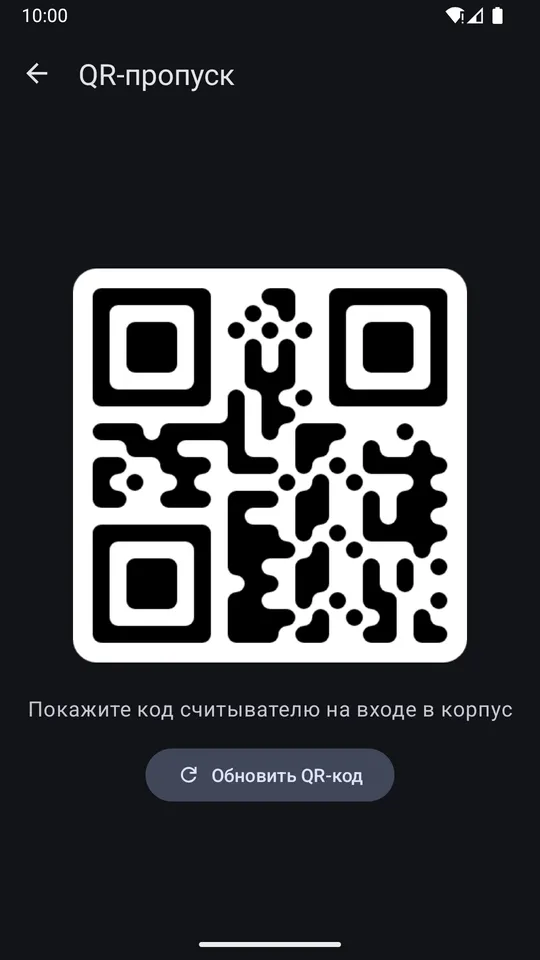
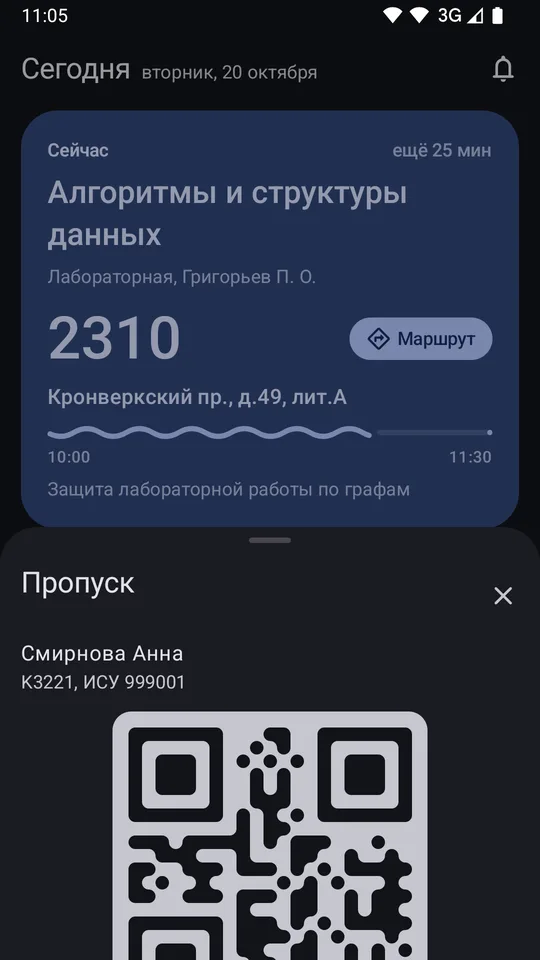
Landing for the 2.3 public beta (#36)
* Landing for the 2.3 public beta: iPhone, Устройства, Telegram downloads

* Landing screenshots from the 2.3 demo, with iPhone shots

* Drop the unused schedule screenshot

diff --git a/site/index.html b/site/index.html
@@ -3,11 +3,11 @@
 <head>
   <meta charset="utf-8">
   <meta name="viewport" content="width=device-width, initial-scale=1">
-  <title>ITMO.Widgets — расписание, зачётка, спорт и QR-пропуск ИТМО на Android</title>
-  <meta name="description" content="Неофициальное приложение для студентов ИТМО: расписание и виджеты, зачётка с БАРС, запись на спорт, отзывы о преподавателях, друзья и QR-пропуск.">
+  <title>ITMO.Widgets — расписание, зачётка, спорт и QR-пропуск ИТМО на Android и iPhone</title>
+  <meta name="description" content="Неофициальное приложение для студентов ИТМО на Android и iPhone: расписание и виджеты, зачётка с БАРС, запись и очереди на спорт, карта кампуса, отзывы о преподавателях, друзья и QR-пропуск.">
   <meta name="color-scheme" content="light dark">
   <meta property="og:title" content="ITMO.Widgets">
-  <meta property="og:description" content="Расписание, зачётка, спорт и QR-пропуск ИТМО в одном приложении для Android.">
+  <meta property="og:description" content="Расписание, зачётка, спорт и QR-пропуск ИТМО в одном приложении для Android и iPhone.">
   <meta property="og:image" content="https://widgets.alllexey.dev/img/icon.webp">
   <link rel="icon" href="/img/favicon.png">
   <link rel="stylesheet" href="/style.css">
@@ -29,17 +29,17 @@
   <main>
     <section class="hero">
       <div class="hero-text">
-        <span class="eyebrow">Для студентов ИТМО на Android</span>
+        <span class="eyebrow">Для студентов ИТМО на Android и iPhone</span>
         <h1>Один учебный день с ITMO.Widgets</h1>
-        <p class="lead">От первого виджета утром до планов на завтра: расписание, пропуск, зачётка, спорт и друзья — в одном приложении.</p>
+        <p class="lead">От первого виджета утром до планов на завтра: расписание, пропуск, зачётка, спорт, карта кампуса и друзья — в одном приложении.</p>
         <div class="actions">
           <a class="button" href="https://play.google.com/store/apps/details?id=dev.alllexey.itmowidgets" hidden>Google Play</a>
-          <a class="button" href="https://github.com/alllexey-dev/ITMO.Widgets/releases/latest">Скачать APK</a>
+          <a class="button" href="#download">Скачать бету 2.3</a>
           <a class="button button-tonal" href="https://github.com/alllexey-dev/ITMO.Widgets">GitHub</a>
         </div>
         <p class="note">Неофициальное приложение, не связано с Университетом ИТМО. Вход через ITMO.ID, пароль приложению не нужен.</p>
       </div>
-      <figure class="hero-phone device"><picture><source srcset="/img/dark/home.webp" media="(prefers-color-scheme: dark)" data-dark><img src="/img/light/home.webp" alt="Главный экран: пары на сегодня, изменения, оценки и спорт" width="540" height="960"></picture></figure>
+      <figure class="hero-phone device"><picture><source srcset="/img/dark/home.webp" media="(prefers-color-scheme: dark)" data-dark><img src="/img/light/home.webp" alt="Сегодня: пара, на которую идти, и день на линии времени" width="540" height="960"></picture></figure>
     </section>
 
     <nav class="day" aria-label="Разделы">
@@ -50,6 +50,7 @@
       <a href="#t4"><b>13:10</b><span>Перед семинаром</span></a>
       <a href="#t5"><b>15:20</b><span>Спорт</span></a>
       <a href="#t6"><b>19:00</b><span>Вечер</span></a>
+      <a href="#t7"><b>23:30</b><span>Ночь</span></a>
     </nav>
 
     <section id="features" class="timeline">
@@ -57,15 +58,11 @@
         <div class="step-time"><b>07:40</b><span>Утро</span></div>
         <div class="step-body">
           <div class="step-text">
-            <span class="eyebrow">Расписание и виджеты</span>
+            <span class="eyebrow">Сегодня и виджеты</span>
             <h2>Пары на сегодня — ещё до кофе</h2>
-            <p>Виджеты «Пара» и «Расписание» на домашнем экране обновляются сами. На главном экране приложения — пары, изменения в расписании, новые оценки и спорт.</p>
+            <p>«Сегодня» показывает пару, на которую идти: аудиторию, адрес и сколько осталось, а ниже — весь день с изменениями, окнами и спортом. Виджеты «Пара», «Расписание на день», «Список пар» и «Спорт» — на Android и iPhone.</p>
           </div>
-          <div class="homescreen">
-            <figure class="w w-single"><picture><source srcset="/img/dark/widget_single_lesson_preview.webp" media="(prefers-color-scheme: dark)" data-dark><img src="/img/light/widget_single_lesson_preview.webp" alt="Виджет «Пара»" width="600" height="167" loading="lazy"></picture></figure>
-            <figure class="w w-list"><picture><source srcset="/img/dark/widget_lesson_list_preview.webp" media="(prefers-color-scheme: dark)" data-dark><img src="/img/light/widget_lesson_list_preview.webp" alt="Виджет «Расписание»" width="600" height="380" loading="lazy"></picture></figure>
-            <figure class="w w-qr"><img src="/img/light/widget_qr_code_preview.webp" alt="Виджет «QR&#8209;код»" width="300" height="300" loading="lazy"></figure>
-          </div>
+          <div class="shots"><figure class="device"><picture><source srcset="/img/dark/widgets.webp" media="(prefers-color-scheme: dark)" data-dark><img src="/img/light/widgets.webp" alt="Галерея виджетов: «Пара» и «Расписание на день»" width="540" height="960" loading="lazy"></picture></figure></div>
         </div>
       </article>
       <article class="step" id="t1">
@@ -74,9 +71,9 @@
           <div class="step-text">
             <span class="eyebrow">QR&#8209;пропуск</span>
             <h2>Пропуск в одно касание</h2>
-            <p>QR-код с главного экрана, из виджета, из плитки в шторке и с ярлыка на рабочем столе.</p>
+            <p>QR-код на «Сегодня» и с ярлыка на значке приложения. На Android — ещё виджет и плитка в шторке, на iPhone — Пункт управления, экран блокировки и кнопка действия. Последний код открывается без сети.</p>
           </div>
-          <div class="shots"><figure class="device"><picture><source srcset="/img/dark/qr.webp" media="(prefers-color-scheme: dark)" data-dark><img src="/img/light/qr.webp" alt="QR&#8209;пропуск" width="540" height="960" loading="lazy"></picture></figure></div>
+          <div class="shots"><figure class="device"><picture><source srcset="/img/dark/qr.webp" media="(prefers-color-scheme: dark)" data-dark><img src="/img/light/qr.webp" alt="Пропуск: QR&#8209;код, имя, группа и ИСУ" width="540" height="960" loading="lazy"></picture></figure><figure class="device"><picture><source srcset="/img/dark/ios-pass.webp" media="(prefers-color-scheme: dark)" data-dark><img src="/img/light/ios-pass.webp" alt="Пропуск на iPhone" width="540" height="960" loading="lazy"></picture></figure></div>
         </div>
       </article>
       <article class="step" id="t2">
@@ -84,10 +81,10 @@
         <div class="step-body">
           <div class="step-text">
             <span class="eyebrow">Расписание</span>
-            <h2>Аудитория, преподаватель и друзья на паре</h2>
-            <p>Тап по паре — тип занятия, аудитория на карте и кто из друзей тоже здесь. Расписание работает без сети, а об изменениях приложение сообщит.</p>
+            <h2>Аудитория, маршрут и друзья на паре</h2>
+            <p>Лента дней с записями на спорт среди пар. В карточке пары — аудитория и корпус, ссылки к предмету, друзья на паре и «Маршрут» на карте кампуса: аудитория на своём этаже и путь до неё. Расписание работает без сети, а об изменениях приложение сообщит.</p>
           </div>
-          <div class="shots"><figure class="device"><picture><source srcset="/img/dark/schedule.webp" media="(prefers-color-scheme: dark)" data-dark><img src="/img/light/schedule.webp" alt="Расписание на вторник" width="540" height="960" loading="lazy"></picture></figure><figure class="device"><picture><source srcset="/img/dark/lesson.webp" media="(prefers-color-scheme: dark)" data-dark><img src="/img/light/lesson.webp" alt="Детали пары с друзьями на паре" width="540" height="960" loading="lazy"></picture></figure></div>
+          <div class="shots"><figure class="device"><picture><source srcset="/img/dark/lesson.webp" media="(prefers-color-scheme: dark)" data-dark><img src="/img/light/lesson.webp" alt="Карточка пары: аудитория, маршрут и друзья на паре" width="540" height="960" loading="lazy"></picture></figure><figure class="device"><picture><source srcset="/img/dark/ios-map.webp" media="(prefers-color-scheme: dark)" data-dark><img src="/img/light/ios-map.webp" alt="Карта кампуса на iPhone" width="540" height="960" loading="lazy"></picture></figure></div>
         </div>
       </article>
       <article class="step" id="t3">
@@ -96,9 +93,9 @@
           <div class="step-text">
             <span class="eyebrow">Зачётка и баллы</span>
             <h2>Пришла новая оценка</h2>
-            <p>Баллы из My ITMO и БАРС, контрольные точки и свой итог из Google Таблицы преподавателя. Рядом — ссылки к предмету: материалы, чаты, очередь на защиту.</p>
+            <p>Колокольчик и уведомление с оценкой в заголовке. У каждого числа в зачётке подписан источник: БАРС, My ITMO или Google Таблица преподавателя. На странице предмета — баллы, пары и материалы: ссылки, чаты, очередь на защиту.</p>
           </div>
-          <div class="shots"><figure class="device"><picture><source srcset="/img/dark/recordbook.webp" media="(prefers-color-scheme: dark)" data-dark><img src="/img/light/recordbook.webp" alt="Зачётка за семестр" width="540" height="960" loading="lazy"></picture></figure><figure class="device"><picture><source srcset="/img/dark/subject.webp" media="(prefers-color-scheme: dark)" data-dark><img src="/img/light/subject.webp" alt="Страница предмета с баллами и ссылками" width="540" height="960" loading="lazy"></picture></figure></div>
+          <div class="shots"><figure class="device"><picture><source srcset="/img/dark/recordbook.webp" media="(prefers-color-scheme: dark)" data-dark><img src="/img/light/recordbook.webp" alt="Зачётка: баллы и их источники" width="540" height="960" loading="lazy"></picture></figure><figure class="device"><picture><source srcset="/img/dark/subject.webp" media="(prefers-color-scheme: dark)" data-dark><img src="/img/light/subject.webp" alt="Страница предмета: баллы и лабораторные" width="540" height="960" loading="lazy"></picture></figure></div>
         </div>
       </article>
       <article class="step" id="t4">
@@ -107,9 +104,9 @@
           <div class="step-text">
             <span class="eyebrow">Отзывы о преподавателях</span>
             <h2>Что ждать от преподавателя</h2>
-            <p>Отзывы студентов анонимны по умолчанию, с отметкой «Вёл у автора» и краткой ИИ-сводкой. Общие отзывы и ссылки проверяют модераторы.</p>
+            <p>В карточке преподавателя — пара, которую он ведёт сейчас, ваши общие предметы, краткая ИИ-сводка и отзывы студентов. Отзывы анонимны по умолчанию, с отметкой «Вёл у автора»; общие отзывы и ссылки проверяют модераторы.</p>
           </div>
-          <div class="shots"><figure class="device"><picture><source srcset="/img/dark/teacher.webp" media="(prefers-color-scheme: dark)" data-dark><img src="/img/light/teacher.webp" alt="Сводка и отзывы о преподавателе" width="540" height="960" loading="lazy"></picture></figure></div>
+          <div class="shots"><figure class="device"><picture><source srcset="/img/dark/teacher.webp" media="(prefers-color-scheme: dark)" data-dark><img src="/img/light/teacher.webp" alt="ИИ-сводка и отзывы о преподавателе" width="540" height="960" loading="lazy"></picture></figure><figure class="device"><picture><source srcset="/img/dark/ios-teacher.webp" media="(prefers-color-scheme: dark)" data-dark><img src="/img/light/ios-teacher.webp" alt="Карточка преподавателя на iPhone" width="540" height="960" loading="lazy"></picture></figure></div>
         </div>
       </article>
       <article class="step" id="t5">
@@ -118,9 +115,9 @@
           <div class="step-text">
             <span class="eyebrow">Спорт и автозапись</span>
             <h2>Место на волейболе уже ваше</h2>
-            <p>Каталог занятий с фильтрами, свои записи и баллы. Очередь на свободное место и автозапись записывают сами.</p>
+            <p>Поиск занятий по виду спорта и преподавателю, свободные места и друзья в строке, кольцо баллов. Очередь запишет на освободившееся место, а секция — на то же занятие каждые две недели.</p>
           </div>
-          <div class="shots"><figure class="device"><picture><source srcset="/img/dark/sport.webp" media="(prefers-color-scheme: dark)" data-dark><img src="/img/light/sport.webp" alt="Каталог занятий по спорту" width="540" height="960" loading="lazy"></picture></figure><figure class="device"><picture><source srcset="/img/dark/sport-mine.webp" media="(prefers-color-scheme: dark)" data-dark><img src="/img/light/sport-mine.webp" alt="Свои записи и баллы" width="540" height="960" loading="lazy"></picture></figure></div>
+          <div class="shots"><figure class="device"><picture><source srcset="/img/dark/sport.webp" media="(prefers-color-scheme: dark)" data-dark><img src="/img/light/sport.webp" alt="Запись на спорт: поиск, фильтры и свободные места" width="540" height="960" loading="lazy"></picture></figure><figure class="device"><picture><source srcset="/img/dark/sport-mine.webp" media="(prefers-color-scheme: dark)" data-dark><img src="/img/light/sport-mine.webp" alt="Моё: баллы за семестр и записи" width="540" height="960" loading="lazy"></picture></figure></div>
         </div>
       </article>
       <article class="step" id="t6">
@@ -129,10 +126,10 @@
           <div class="step-text">
             <span class="eyebrow">Друзья и календарь</span>
             <h2>Планы на завтра — вместе</h2>
-            <p>Расписание и тренировки друзей рядом со своими, а пары и спорт — в календаре телефона или в файле .ics на четыре недели вперёд. Кто видит ваше расписание, решаете вы.</p>
+            <p>«Чьё расписание» показывает, где сейчас друзья, а общие пары отмечены «Вы». Пары и спорт — в календаре телефона или в файле .ics. Кто видит ваше расписание, решаете вы.</p>
           </div>
           <div class="pair">
-            <figure class="device"><picture><source srcset="/img/dark/friends.webp" media="(prefers-color-scheme: dark)" data-dark><img src="/img/light/friends.webp" alt="Список друзей и заявки" width="540" height="960" loading="lazy"></picture></figure>
+            <figure class="device"><picture><source srcset="/img/dark/friends.webp" media="(prefers-color-scheme: dark)" data-dark><img src="/img/light/friends.webp" alt="Чьё расписание: где сейчас друзья" width="540" height="960" loading="lazy"></picture></figure>
             <div class="calendar" aria-label="Пары в календаре телефона">
               <div class="cal-head"><span>Календарь</span><span class="cal-chip">ITMO.Widgets</span></div>
               <ul>
@@ -146,6 +143,29 @@
           </div>
         </div>
       </article>
+      <article class="step" id="t7">
+        <div class="step-time"><b>23:30</b><span>Ночь</span></div>
+        <div class="step-body">
+          <div class="step-text">
+            <span class="eyebrow">Устройства</span>
+            <h2>Спорт запишется, пока вы спите</h2>
+            <p>В «Профиль → Устройства» по QR-коду подключаются веб-версия, <a href="https://github.com/alllexey-dev/itmo-widgets-agent">itmo-widgets-agent</a> и <a href="https://github.com/alllexey-dev/itmo-mcp">itmo-mcp</a>. Агент на компьютере или сервере записывает на спорт из очереди, MCP-сервер отвечает ИИ-ассистенту про пары и баллы. Вход ITMO.ID у каждого свой, пароль остаётся на телефоне.</p>
+          </div>
+          <div class="pair">
+            <figure class="device"><picture><source srcset="/img/dark/me.webp" media="(prefers-color-scheme: dark)" data-dark><img src="/img/light/me.webp" alt="Профиль со строкой «Устройства»" width="540" height="960" loading="lazy"></picture></figure>
+            <div class="calendar" aria-label="Подключённые устройства">
+              <div class="cal-head"><span>Устройства</span><span class="cal-chip">ITMO.Widgets</span></div>
+              <ul>
+                <li><span class="cal-time">Телефон</span><span class="cal-event"><b>Этот телефон</b><span>ITMO.Widgets 2.3</span></span></li>
+                <li><span class="cal-time">Браузер</span><span class="cal-event"><b>Веб-версия</b><span>Chrome · macOS</span></span></li>
+                <li><span class="cal-time">Агент</span><span class="cal-event"><b>itmo-widgets-agent</b><span>Сервер · запись на спорт</span></span></li>
+                <li><span class="cal-time">MCP</span><span class="cal-event"><b>itmo-mcp</b><span>Claude · только чтение</span></span></li>
+              </ul>
+              <div class="cal-file">Подключить устройство</div>
+            </div>
+          </div>
+        </div>
+      </article>
     </section>
 
     <section id="privacy" class="privacy">
@@ -154,7 +174,7 @@
       <ul>
         <li><h3>Пароль не нужен</h3><p>Вход на официальной странице ITMO.ID. Пароль приложение не видит.</p></li>
         <li><h3>Данные — на телефоне</h3><p>Расписание, зачётка и пропуск загружаются с сайтов университета прямо на телефон.</p></li>
-        <li><h3>Сервер — по вашему выбору</h3><p>Друзья, очереди на спорт, ссылки и отзывы работают через сервер ITMO.Widgets и включаются отдельно.</p></li>
+        <li><h3>Сервер — по вашему выбору</h3><p>Друзья, очереди и секции на спорт, ссылки, отзывы и подключённые устройства работают через сервер ITMO.Widgets и включаются отдельно.</p></li>
         <li><h3>Без рекламы</h3><p>Рекламы и аналитики нет. Аккаунт на сервере можно удалить.</p></li>
       </ul>
       <p class="muted"><a href="/privacy.html">Политика конфиденциальности</a> · <a href="/delete-account">Как удалить аккаунт</a></p>
@@ -162,12 +182,16 @@
     <section id="download" class="download">
       <div>
         <span class="eyebrow">Скачать</span>
-        <h2>Версия 2.2</h2>
-        <p>Android 8.0 и новее. Обновления — в приложении. Вопросы и предложения — в <a href="https://t.me/itmowidgets">Telegram</a>.</p>
+        <h2>Версия 2.3 — бета</h2>
+        <p>Бета выходит в <a href="https://t.me/itmowidgets">Telegram-канале</a>, вопросы и баги — туда же.<br>
+          Android 8.0 и новее: APK arm64 подходит почти всем телефонам, armv7 — совсем старым.<br>
+          iPhone с iOS 26.1: файл .ipa ставится через AltStore, SideStore или Sideloadly. Уведомлений пока нет, а записывать на спорт при закрытом приложении умеет <a href="https://github.com/alllexey-dev/itmo-widgets-agent">itmo-widgets-agent</a>.<br>
+          В Google Play приложения пока нет. Стабильная версия 2.2 для Android — в релизах на GitHub.</p>
       </div>
       <div class="actions">
         <a class="button" href="https://play.google.com/store/apps/details?id=dev.alllexey.itmowidgets" hidden>Google Play</a>
-        <a class="button" href="https://github.com/alllexey-dev/ITMO.Widgets/releases/latest">APK с GitHub</a>
+        <a class="button" href="https://t.me/itmowidgets">Скачать в Telegram</a>
+        <a class="button button-tonal" href="https://github.com/alllexey-dev/ITMO.Widgets/releases">Релизы на GitHub</a>
       </div>
     </section>
   </main>

diff --git a/site/style.css b/site/style.css
@@ -165,21 +165,6 @@ footer {
 }
 footer .unofficial { flex-basis: 100%; }
 
-/* Widgets on a home-screen backdrop. */
-.homescreen {
-  position: relative; min-height: 380px; border-radius: var(--radius); overflow: hidden;
-  background:
-    radial-gradient(circle at 20% 20%, rgba(58, 84, 136, 0.25), transparent 45%),
-    radial-gradient(circle at 80% 80%, rgba(58, 84, 136, 0.18), transparent 50%),
-    var(--surface-high);
-}
-.homescreen .w { position: absolute; margin: 0; }
-.homescreen .w img, .homescreen .w picture { display: block; width: 100%; height: auto; }
-.homescreen .w img { border-radius: 18px; box-shadow: 0 8px 24px rgba(0, 0, 0, 0.12); }
-.w-single { width: min(290px, 58%); left: 6%; top: 32px; }
-.w-list { width: min(290px, 58%); left: 6%; top: 128px; }
-.w-qr { width: min(124px, 25%); right: 6%; bottom: 36px; }
-
 /* Calendar export, drawn as the phone calendar would list the demo week. */
 .calendar {
   align-self: center; width: min(420px, 100%); padding: 20px; border-radius: var(--radius);
@@ -254,7 +239,6 @@ footer .unofficial { flex-basis: 100%; }
 .shots { display: flex; gap: 20px; justify-content: center; align-items: flex-start; height: 360px; padding-top: 36px; overflow: hidden; }
 .shots .device { width: 210px; flex-shrink: 0; }
 .shots .device:only-child { width: 240px; }
-.step .homescreen { margin: 28px 28px 28px 0; min-height: 340px; }
 .step-body:has(.pair) { grid-template-columns: 1fr 1.5fr; }
 .pair { display: flex; gap: 20px; align-items: flex-start; justify-content: center; height: 360px; padding: 36px 28px 0 0; overflow: hidden; }
 .pair .device { width: 170px; flex-shrink: 0; }
@@ -290,7 +274,6 @@ footer .unofficial { flex-basis: 100%; }
   .privacy ul { grid-template-columns: repeat(2, 1fr); }
   .step-body, .step-body:has(.pair) { grid-template-columns: 1fr; padding: 0 24px; gap: 0; }
   .step-text { padding: 28px 0 8px; }
-  .step .homescreen { margin: 16px -24px 0; border-radius: 0; }
   .pair { padding: 16px 0 0; height: auto; overflow: visible; flex-wrap: wrap; padding-bottom: 24px; }
 }
 @media (max-width: 760px) {
@@ -316,10 +299,6 @@ footer .unofficial { flex-basis: 100%; }
   .shots { height: 280px; padding-top: 16px; gap: 10px; }
   .shots .device { width: min(160px, 48%); }
   .shots .device:only-child { width: min(200px, 80%); }
-  .step .homescreen { margin: 16px -16px 0; min-height: 400px; }
-  .w-single, .w-list { width: 86%; left: 7%; }
-  .w-list { top: 110px; }
-  .w-qr { left: 7%; right: auto; top: 300px; bottom: auto; width: 84px; }
   .pair .device { width: min(180px, 70%); }
   .pair .calendar { flex-basis: 100%; }
 }

diff --git a/README.md b/README.md
@@ -84,28 +84,29 @@ Telegram или на почту, подтверждение входом в ве
 
 ## Скриншоты лендинга
 
-Снимки экранов — те же кадры демо-режима, что и для карточки Google Play: их
-снимает `StoreScreenshotCapture` из Android-проекта на вымышленных данных
-(1080 × 1920, светлая и тёмная тема, в `vibe/store-screenshots/{light,dark}/`
-репозитория приложения). Картинки виджетов снимает `WidgetPreviewImageCapture`
-(`vibe/store-screenshots/widgets/{light,night}/`). Реальных аккаунтов в кадрах
-нет.
+Снимки экранов — кадры демо-режима из `vibe/showcase/` репозитория приложения
+(описание каждого файла — в его `index.md`): Android `android/{light,dark}/`
+(1080 × 2400) и iPhone `ios/` (1206 × 2622, тёмные — с суффиксом `-dark`).
+Реальных аккаунтов в кадрах нет. Настройки и «Уведомления» на лендинг не
+берём: в демо они показывают «Сервер ITMO.Widgets: Не подключено».
 
 Имена файлов в `site/img/{light,dark}/` постоянные, поэтому обновлённые снимки
 просто заменяют старые:
 
 | Кадр | Файл |
 |---|---|
-| `01-home`, `02-schedule`, `03-lesson`, `04-recordbook`, `05-subject` | `home`, `schedule`, `lesson`, `recordbook`, `subject` |
-| `06-sport`, `07-sport-mine`, `08-teacher`, `09-friends`, `11-qr` | `sport`, `sport-mine`, `teacher`, `friends`, `qr` |
-| `widget_*_preview` | то же имя; QR-виджет — только светлый |
+| Android `02-today`, `09-lesson`, `13-recordbook`, `16-subject-scores` | `home`, `lesson`, `recordbook`, `subject` |
+| Android `24-sport-sign`, `20-sport-mine`, `31-teacher-reviews`, `11-friend-picker`, `28-me` | `sport`, `sport-mine`, `teacher`, `friends`, `me` |
+| Android `05-pass`, `40-widgets-more` | `qr`, `widgets` |
+| iPhone `04-pass`, `22-teacher`, `37-map` | `ios-pass`, `ios-teacher`, `ios-map` |
+
+Кадр обрезается сверху до 9:16 (у `ios-pass` — снизу, чтобы попал QR-код) и
+сжимается до 540 × 960:
 
 ```bash
-magick 01-home.png -resize 540x960 -quality 82 site/img/light/home.webp
-magick widget_lesson_list_preview.png -resize 600x -quality 82 site/img/dark/widget_lesson_list_preview.webp
+magick 02-today.png -gravity North -crop 1080x1920+0+0 +repage -resize 540x960 -quality 82 site/img/light/home.webp
+magick 04-pass-dark.png -gravity South -crop 1206x2144+0+0 +repage -resize 540x960 -quality 82 site/img/dark/ios-pass.webp
 ```
-
-Тёмные кадры виджетов берутся из `widgets/night/`, QR-виджет — `-resize 300x`.
 
 ## Локальный просмотр
 

diff --git a/CHANGELOG.md b/CHANGELOG.md
@@ -4,6 +4,7 @@ Dates are production deploys; before 2026-10-02 they are commit dates.
 
 ## Unreleased
 
+- The landing describes the 2.3 public beta: Android and iPhone, Сегодня, the Расписание feed, Зачётка sources, Спорт sections, the campus map, and a new "Ночь" step on Устройства with the web, itmo-widgets-agent and itmo-mcp. Downloads go to the Telegram channel and the GitHub Releases page; the iPhone notes (sideloading, no push, the agent) sit next to them. Screenshots are the 2.3 demo frames from Android and iPhone; the widget step shows the widget gallery instead of the 2.2 widget renders, which are gone.
 - The web is a connected client of the account (ITMO.Widgets connected clients plan, Backend `docs/contracts/connections.md`): `/app/login` shows a QR with the browser's key and a six-digit code to compare, the phone approves it in Профиль -> Устройства -> Подключить устройство, and Backend sets the `iw_client` cookie. Staff routes with an approval older than 7 days show a QR to confirm on the phone instead of a new sign-in. `Выйти` revokes the connection. The alpha sign-in (8-character codes, `/app/login?code=`) and the session refresh are removed. Needs Backend with connections; API types come from Backend 97f6a74 (PR #58, not on `master` yet).
 - Профиль -> Устройства (`/me/devices`) for a lost phone: connected browsers, agents and MCP servers with their access (narrowing only), disconnecting them, and signing out another phone's app from pushes. Scope texts come from Backend in the UI language.
 - `@alllexey/ui` 0.5.0: density tokens and a rail whose menu button and items stay centred on short windows. The site keeps the default density; app sizes of controls, rows and cards follow the density tokens. On a user's page the "своя сборка" pill of a client keeps its own width.
